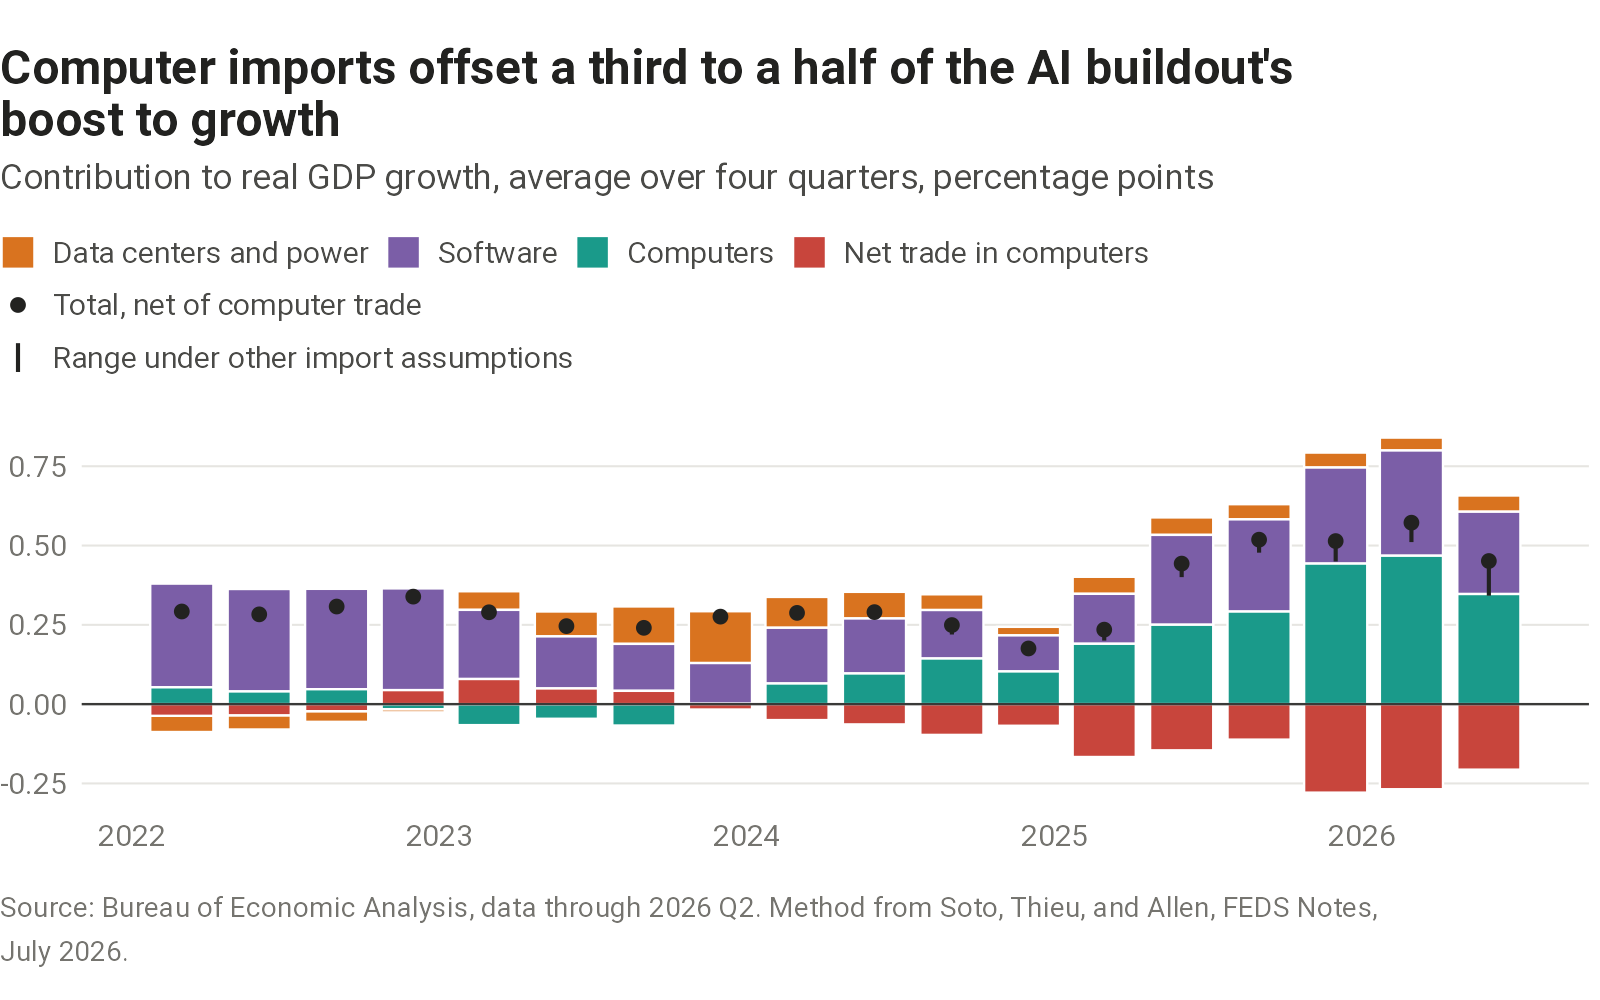
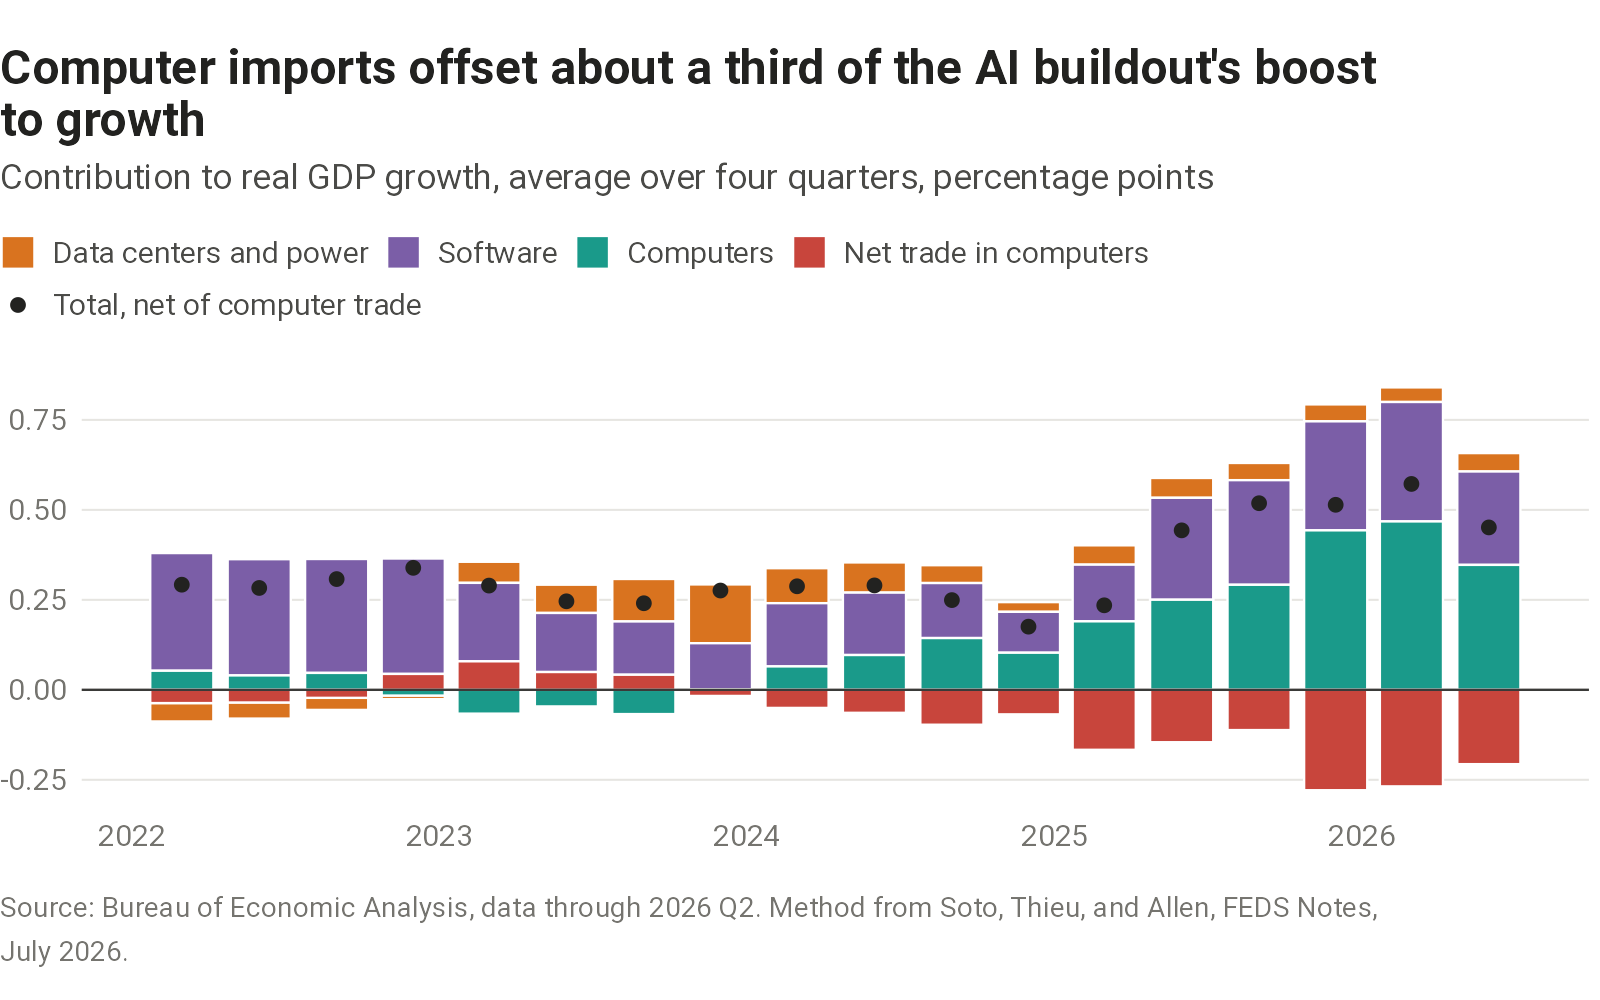
Drop the import-assumption range from the AI investment chart
The alternatives move the net contribution by about a tenth of a point,
mostly in the latest quarter, and don't change the story. Chart, text,
and title use the FEDS method; the spec keeps the alternatives as a
refresh check.

Claude-Session: https://claude.ai/code/session_01C4kQtTHdakDNHHerQuEFwM

diff --git a/charts/ai-investment-gdp/spec.md b/charts/ai-investment-gdp/spec.md
@@ -56,7 +56,7 @@ For computer trade, the lagged share is multiplied by the capital goods share of
 
 Net contribution = software + computers + data centers + power + net exports of computers.
 
-The chart plots four-quarter averages of these quarterly contributions and combines data centers and power into one bar. The CSV has the averages, with data centers and power separate. A range line on each net total runs from the lowest to the highest net total across the FEDS method, the BEA domestic-use trade weight, and computer trade deflated with the investment price; the CSV has both ends.
+The chart plots four-quarter averages of these quarterly contributions and combines data centers and power into one bar. The CSV has the averages, with data centers and power separate.
 
 ## Vintages
 
@@ -167,4 +167,4 @@ As of 2026-09-26. Not yet decided or done.
 - 2026-09-26: The text above the chart opens with the general point, that AI investment has lifted growth over the past two years but headline figures overstate it because of imports. Check that wording on each refresh.
 - 2026-09-26: The text names the four components rather than calling the total "AI investment", since they also carry spending unrelated to AI: the same components added about 0.3 point a year to growth in 2022 and 2023. The chart subtitle drops "AI-related" for the same reason.
 - 2026-09-26: Plot four-quarter averages instead of quarterly contributions, as the text does, since quarterly bars swing too much to show the trend. Replaces the earlier decision to show quarterly contributions as the note does; `reproduce.R` still checks the quarterly figures. Tried splitting into two charts (gross by component, then gross against net); dropped because the first would stand alone on the headline figure the chart argues is overstated.
-- 2026-09-26: Show the range across the three import assumptions on the chart, so the low end quoted in the text and behind the title (0.34 point, an offset of about half) is visible. The text gives the net contribution as that range rather than quoting the gross total, which the bars show.
+- 2026-09-26: Chart and text use the FEDS method only; title back to "about a third." The alternatives (BEA domestic-use weight in `trade_weights.R`, investment-price deflation in `import_prices.R`) give 0.34 to 0.41 point net over the four quarters through 2026 Q2, against 0.45. The gap is about a tenth of a point, doesn't change the story, and comes mostly from 2026 Q2, when import prices rose faster than investment prices. Rerun both on each refresh; if the gap stays wide, show the range on the chart again.

diff --git a/charts/ai-investment-gdp/output/ai-investment-gdp-lead.md b/charts/ai-investment-gdp/output/ai-investment-gdp-lead.md
@@ -1,1 +1,1 @@
-Investment in software, computers, data centers, and power—the spending that carries the AI buildout—has lifted real GDP growth since early 2025, but by less than headline figures suggest because many of the computers are imported. Net of those imports, it added 0.34 to 0.45 percentage point to real GDP growth over the past four quarters, depending on how imports are treated. In 2023, before the buildout, it added about 0.3 point with or without imports.
+Investment in software, computers, data centers, and power—the spending that carries the AI buildout—has lifted real GDP growth since early 2025, but by less than headline figures suggest because many of the computers are imported. Net of those imports, it added about 0.45 percentage point to real GDP growth over the past four quarters. In 2023, before the buildout, it added about 0.3 point with or without imports.

diff --git a/charts/ai-investment-gdp/output/ai-investment-gdp-notes.md b/charts/ai-investment-gdp/output/ai-investment-gdp-notes.md
@@ -8,8 +8,6 @@
 
 **Net trade in computers:** Computer exports minus imports, counting the share that goes to business.
 
-**Range under other import assumptions:** Estimates business's share of computer imports from U.S. computer spending, or prices imports like the computers businesses buy.
-
 ::: {.chart-source}
 Source: Bureau of Economic Analysis, through 2026 Q2. Method from Soto, Thieu, and Allen, ["The AI Buildout and the Economy"](https://www.federalreserve.gov/econres/notes/feds-notes/the-ai-buildout-and-the-economy-publicly-available-data-to-assess-ais-impact-20260717.html), FEDS Notes, July 2026. [Download the data (CSV)](charts/ai-investment-gdp/output/ai-investment-gdp.csv)
 :::
